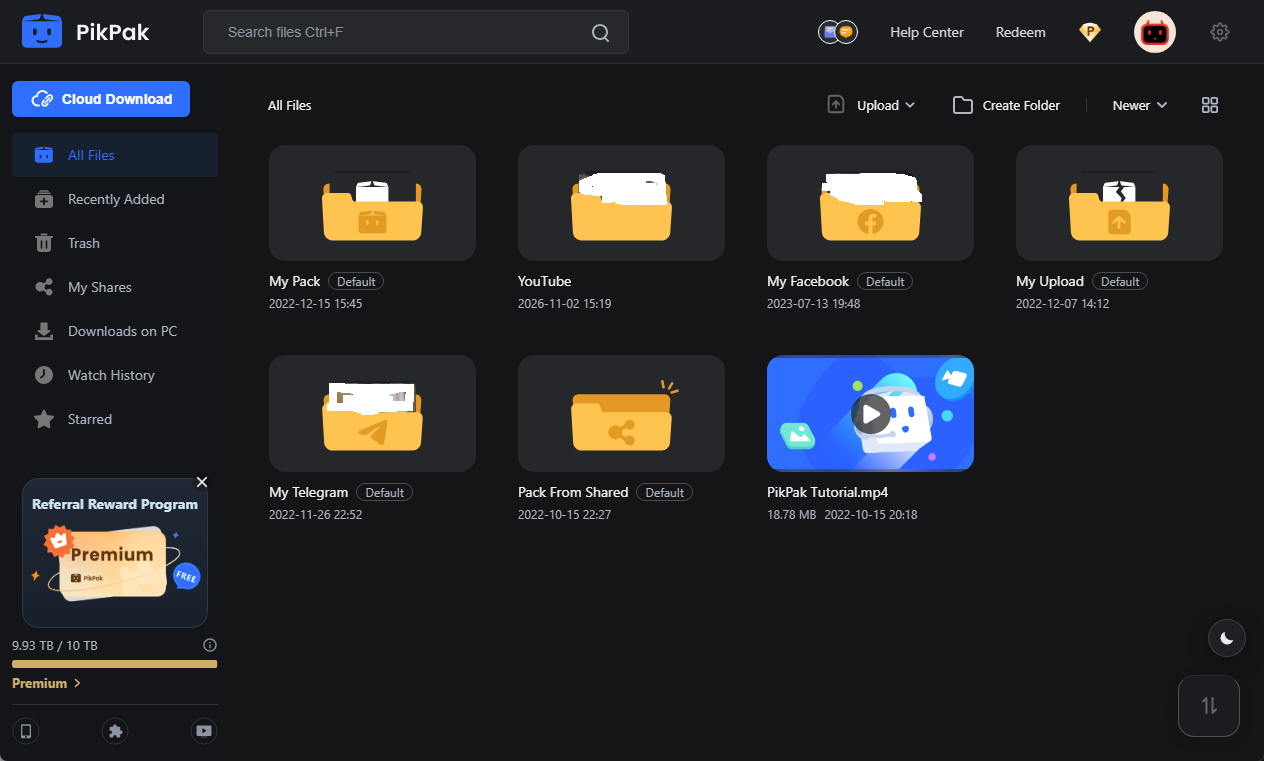
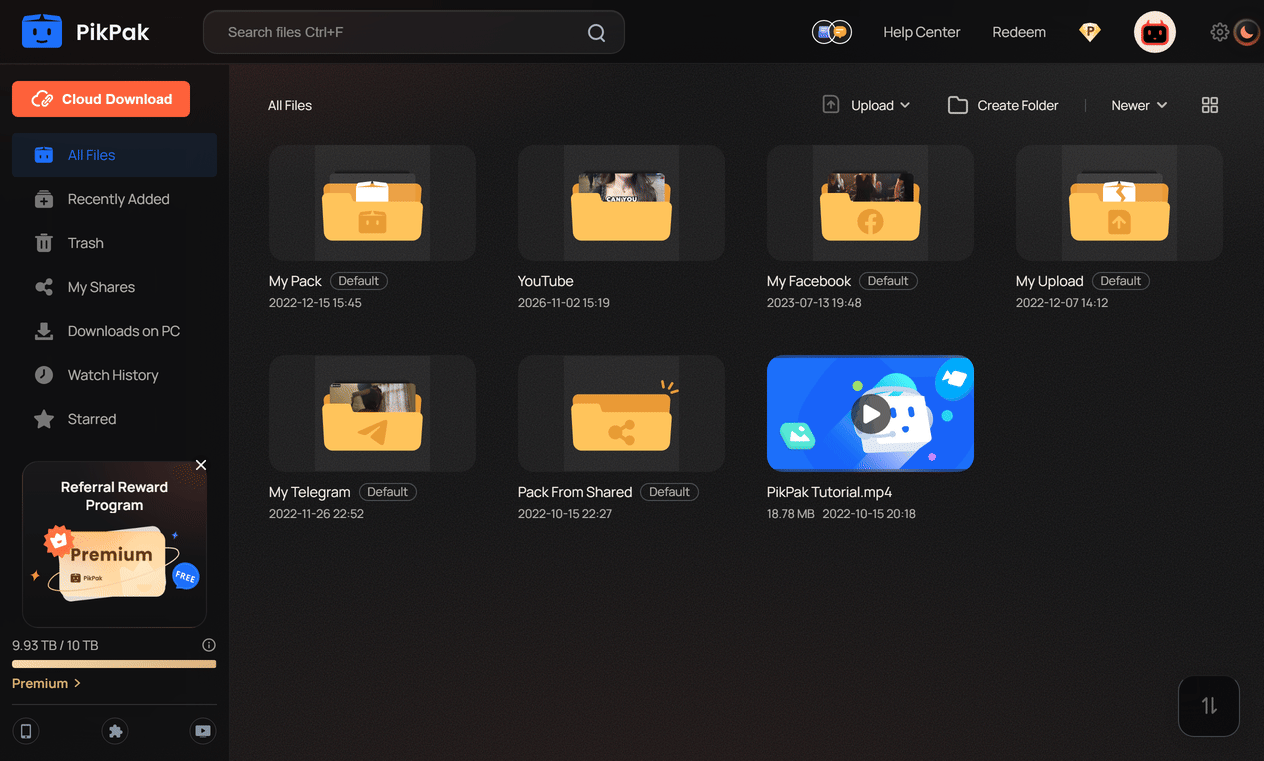
fix(theme): polish search panel and refresh screenshots

diff --git a/theme/pikpak-darkmode.css b/theme/pikpak-darkmode.css
@@ -102,6 +102,8 @@ html.pikpak-dark .file-explorer {
 
 /* Header */
 html.pikpak-dark .header-bar {
+  position: relative !important;
+  z-index: 20 !important;
   background: rgba(10, 10, 11, 0.72) !important;
   border-bottom: 1px solid rgba(255, 255, 255, 0.08) !important;
   color: #f4f1ea !important;
@@ -2263,6 +2265,123 @@ html.pikpak-dark .file-drag-feedback {
   backdrop-filter: blur(24px) saturate(1.4);
   -webkit-backdrop-filter: blur(24px) saturate(1.4);
 }
+/* Search dropdown: graphite glass with a signal-orange edge. The header's
+   backdrop-filter creates a stacking context, so the header is lifted above
+   the explorer; otherwise this panel renders behind the file list. */
+html.pikpak-dark .search-extension {
+  max-height: calc(100vh - 78px) !important;
+  overflow-x: hidden !important;
+  overflow-y: auto !important;
+  overscroll-behavior: contain;
+  padding: 10px 12px 12px !important;
+  border-radius: 20px !important;
+  border-color: rgba(255, 255, 255, 0.12) !important;
+  background:
+    radial-gradient(120% 90% at 0% 0%, rgba(255, 92, 53, 0.16), transparent 56%),
+    radial-gradient(100% 90% at 100% 0%, rgba(217, 178, 122, 0.1), transparent 62%),
+    rgba(18, 18, 20, 0.98) !important;
+  box-shadow:
+    0 32px 80px -28px rgba(0, 0, 0, 0.96),
+    0 0 0 1px rgba(255, 92, 53, 0.08),
+    inset 0 1px 0 rgba(255, 255, 255, 0.08) !important;
+  scrollbar-width: thin;
+}
+html.pikpak-dark .search-extension > div + div::before {
+  background: linear-gradient(
+    90deg,
+    transparent,
+    rgba(255, 255, 255, 0.12),
+    transparent
+  ) !important;
+}
+
+html.pikpak-dark .search-history .title-wrap {
+  align-items: center;
+}
+html.pikpak-dark .search-history .title,
+html.pikpak-dark .search-tags .title {
+  padding: 10px 8px !important;
+  color: rgba(244, 241, 234, 0.46) !important;
+  font-family: "JetBrains Mono", "Cascadia Mono", Consolas, monospace !important;
+  font-size: 10px !important;
+  font-weight: 600 !important;
+  letter-spacing: 0.18em;
+  text-transform: uppercase;
+}
+html.pikpak-dark .search-history .title-wrap .pp-link-button {
+  color: #ff8a63 !important;
+  font-family: "JetBrains Mono", "Cascadia Mono", Consolas, monospace !important;
+  font-size: 10.5px !important;
+  letter-spacing: 0.06em;
+  text-transform: uppercase;
+}
+html.pikpak-dark .search-history .title-wrap .pp-link-button:hover {
+  color: #ffab8f !important;
+}
+
+html.pikpak-dark .search-history ul {
+  display: flex;
+  flex-direction: column;
+  gap: 2px;
+}
+html.pikpak-dark .search-history li {
+  margin: 0 -6px;
+  padding: 0 6px;
+  border-radius: 10px;
+  transition: background 0.16s ease, color 0.16s ease;
+}
+html.pikpak-dark .search-history li:hover {
+  background: rgba(255, 92, 53, 0.11);
+}
+html.pikpak-dark .search-history .name {
+  color: rgba(244, 241, 234, 0.9);
+}
+html.pikpak-dark .search-history li:hover .name {
+  color: #ffffff;
+}
+html.pikpak-dark .search-history .clear .pp-icon {
+  --icon-color: rgba(244, 241, 234, 0.42) !important;
+  --icon-color-hover: #ff8a63 !important;
+}
+
+html.pikpak-dark .search-tags ul {
+  gap: 8px !important;
+}
+html.pikpak-dark .search-tags li {
+  background-color: rgba(255, 255, 255, 0.055) !important;
+  border: 1px solid rgba(255, 255, 255, 0.08) !important;
+  box-shadow: inset 0 1px 0 rgba(255, 255, 255, 0.06);
+  transition:
+    background 0.16s ease,
+    border-color 0.16s ease,
+    color 0.16s ease,
+    transform 0.16s ease;
+}
+html.pikpak-dark .search-tags li:hover {
+  background-color: rgba(255, 92, 53, 0.14) !important;
+  border-color: rgba(255, 92, 53, 0.36) !important;
+  color: #ffffff !important;
+  transform: translateY(-1px);
+}
+
+html.pikpak-dark .search-share-code {
+  margin-top: 10px !important;
+  padding: 8px 6px 2px !important;
+  border-top: 1px solid rgba(255, 255, 255, 0.08);
+}
+html.pikpak-dark .search-share-code .title {
+  color: rgba(244, 241, 234, 0.62) !important;
+  font-size: 12.5px !important;
+}
+html.pikpak-dark .search-share-code .share-code {
+  color: #ff8a63 !important;
+  font-family: "JetBrains Mono", "Cascadia Mono", Consolas, monospace !important;
+  font-size: 12px !important;
+}
+html.pikpak-dark .search-share-code .share-code:hover {
+  color: #ffab8f !important;
+}
+
 html.pikpak-dark .menu-popover .menu li:hover,
 html.pikpak-dark .context-menu li:hover,
 html.pikpak-dark .information li:hover {

diff --git a/README.md b/README.md
@@ -1,6 +1,6 @@
 <div align="center">
 
-<img src="docs/preview.png" alt="PikPak Dark Mode — theme panel shown in light and dark mode" width="100%">
+<img src="docs/preview.png" alt="PikPak Dark Mode — the app shown in dark and light mode" width="100%">
 
 # PikPak Dark Mode
 
